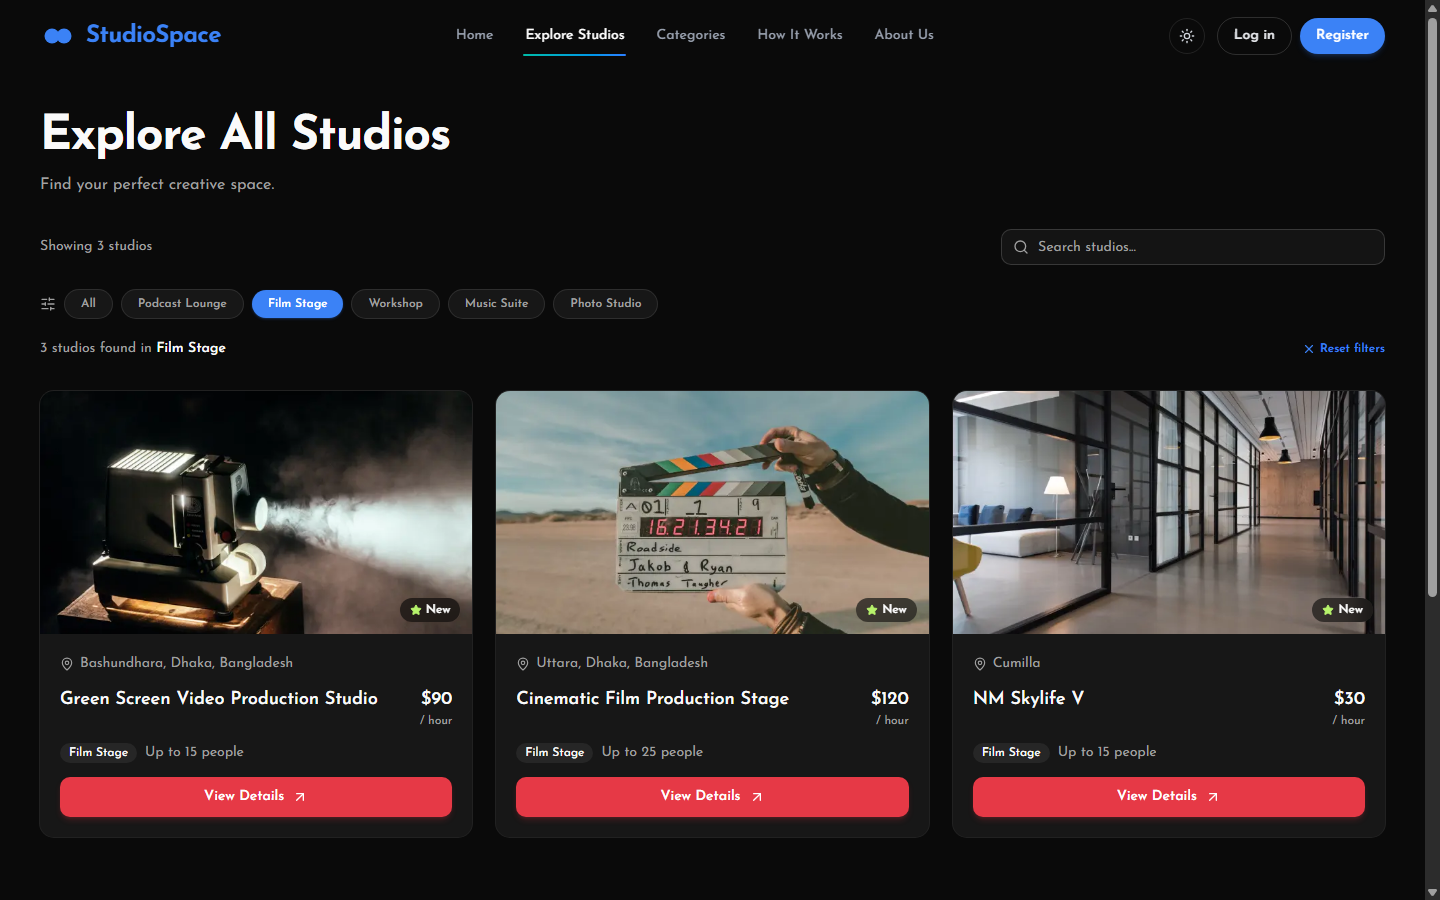
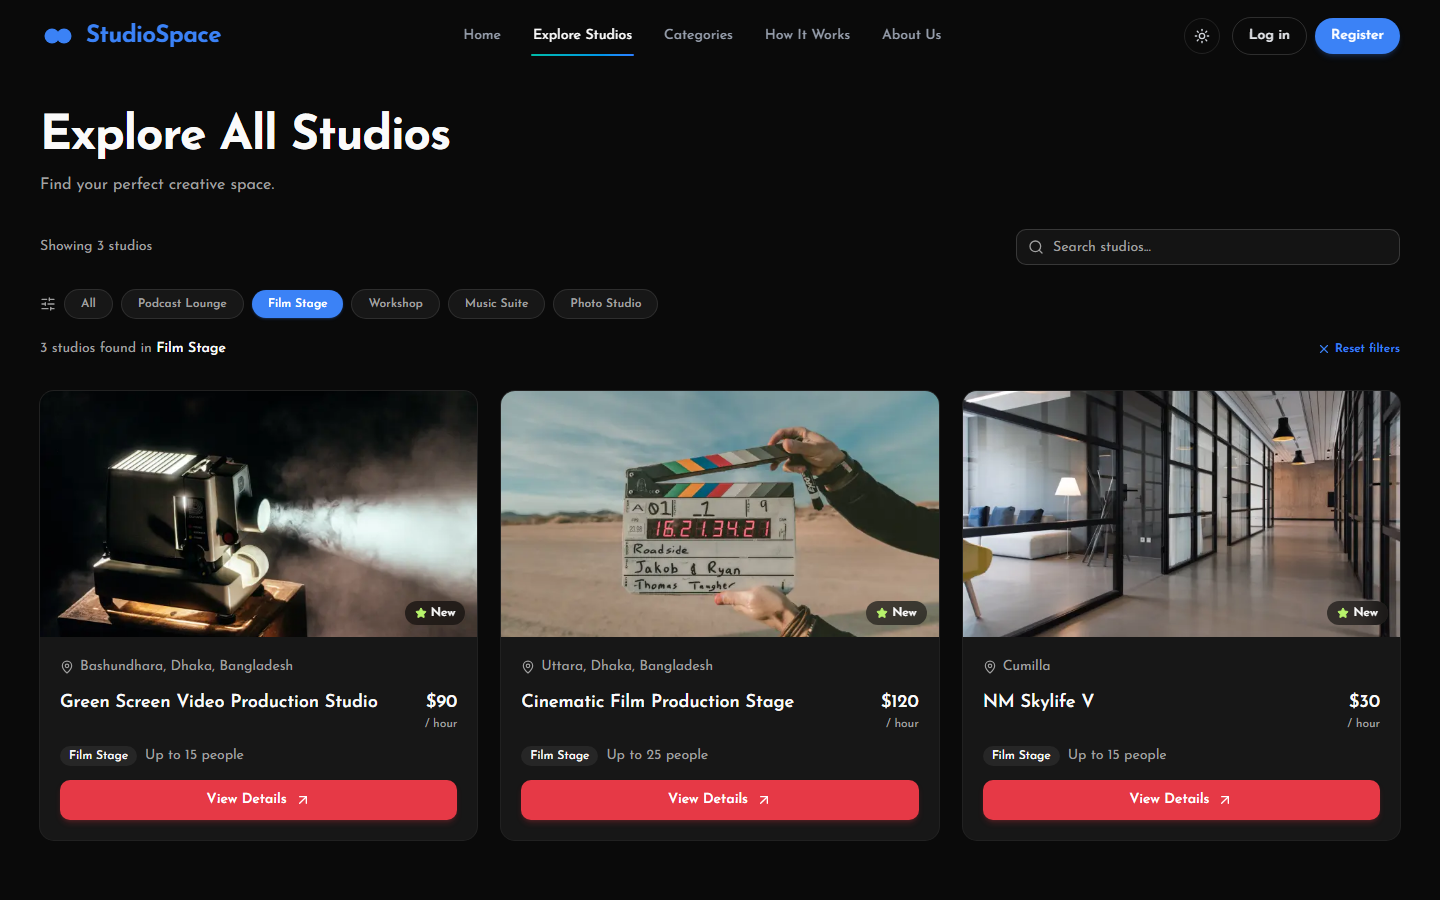
Ui fixed

diff --git a/src/data/projects.ts b/src/data/projects.ts
@@ -205,7 +205,7 @@ export const projects: Project[] = [
     problem:
       "Daily market price volatility and lack of accessible price tracking in local bazaars make it challenging for ordinary citizens to anticipate fair prices and prevent overpaying.",
     solution:
-      "Constructed a responsive full-stack platform featuring an animated price ticker, Bengali calendar date integration, detailed product price analytics, and protected user dashboards.",
+      "Constructed a responsive full-stack platform featuring an animated price ticker, Bengali calendar date integration, detailed product price analytics, and protected product detail and profile routes.",
     image: "/images/projects/bazar-dor1.png",
     imageAlt: "Bazar Dor daily market commodity monitoring platform interface",
     technologies: [
@@ -313,7 +313,7 @@ export const projects: Project[] = [
     problem:
       "Developers lose hours navigating scattered documentation to assemble modern, compatible development stacks.",
     solution:
-      "Built a streamlined web explorer that categorizes developer tools with responsive filtering, category badges, and instant search.",
+      "Built a streamlined React interface where users can explore technologies by category, difficulty, rating, and description, then assemble and manage a personal stack without duplicates.",
     image: "/images/projects/devstack1.png",
     imageAlt: "DevStack developer tool catalog interface",
     technologies: [
@@ -331,9 +331,10 @@ export const projects: Project[] = [
     category: "Frontend",
     developmentStatus: "Live",
     highlights: [
-      "Dynamic search and multi-tag filtering across tech categories",
-      "Responsive cards with tool details, external links, and tag badges",
-      "Optimized client-side state management for snappy interactions",
+      "Browse technologies with icon, category, difficulty, rating, and description",
+      "Add technologies to a personal stack with duplicate prevention",
+      "Remove selected technologies individually or clear the whole stack",
+      "Responsive interface with toast feedback for add and remove actions",
     ],
     features: [
       {

diff --git a/src/components/projects/detail/ProjectGallery.tsx b/src/components/projects/detail/ProjectGallery.tsx
@@ -41,7 +41,11 @@ export function ProjectGallery({ images }: ProjectGalleryProps) {
                 src={image.src}
                 alt={image.alt}
                 fill
-                sizes="(min-width: 640px) 50vw, 100vw"
+                sizes={
+                  spansBoth
+                    ? "(min-width: 1024px) 900px, 100vw"
+                    : "(min-width: 1024px) 450px, (min-width: 640px) 50vw, 100vw"
+                }
                 className="object-cover object-top transition-transform duration-500 group-hover:scale-[1.02]"
               />
               <span className="pointer-events-none absolute inset-0 bg-gradient-to-t from-black/55 via-transparent to-transparent opacity-70 transition-opacity group-hover:opacity-100" />
@@ -52,7 +56,7 @@ export function ProjectGallery({ images }: ProjectGalleryProps) {
                 </span>
               )}
 
-              <span className="absolute right-3 top-3 inline-flex h-8 w-8 items-center justify-center rounded-full border border-white/20 bg-black/45 text-white opacity-0 backdrop-blur transition-opacity group-hover:opacity-100 group-focus-visible:opacity-100">
+              <span className="absolute right-3 top-3 inline-flex h-8 w-8 items-center justify-center rounded-full border border-white/20 bg-black/45 text-white opacity-100 backdrop-blur transition-opacity sm:opacity-0 sm:group-hover:opacity-100 sm:group-focus-visible:opacity-100">
                 <Expand className="h-3.5 w-3.5" />
               </span>
             </button>

diff --git a/src/components/projects/detail/SectionReveal.tsx b/src/components/projects/detail/SectionReveal.tsx
@@ -9,9 +9,15 @@ interface SectionRevealProps {
   delay?: number;
 }
 
+const useIsomorphicLayoutEffect =
+  typeof window !== "undefined" ? React.useLayoutEffect : React.useEffect;
+
 /**
  * Small, dependency-free entrance animation.
- * Content is revealed once when it first approaches the viewport.
+ *
+ * The server renders content visible by default, so the page still works
+ * without JavaScript. On the client, off-screen sections are hidden in a
+ * layout effect (before paint) and revealed once they approach the viewport.
  */
 export function SectionReveal({
   children,
@@ -19,9 +25,9 @@ export function SectionReveal({
   delay = 0,
 }: SectionRevealProps) {
   const ref = React.useRef<HTMLDivElement>(null);
-  const [visible, setVisible] = React.useState(false);
+  const [visible, setVisible] = React.useState(true);
 
-  React.useEffect(() => {
+  useIsomorphicLayoutEffect(() => {
     const node = ref.current;
     if (!node) return;
 
@@ -34,11 +40,13 @@ export function SectionReveal({
       return;
     }
 
-    // Anything already on screen should not wait for the observer.
+    // Anything already on screen should stay visible.
     if (node.getBoundingClientRect().top < window.innerHeight * 0.92) {
       setVisible(true);
       return;
     }
+
+    setVisible(false);
 
     const observer = new IntersectionObserver(
       ([entry]) => {

diff --git a/src/components/projects/detail/ProjectBanner.tsx b/src/components/projects/detail/ProjectBanner.tsx
@@ -31,7 +31,7 @@ export function ProjectBanner({ src, alt }: ProjectBannerProps) {
           sizes="100vw"
           className="object-cover object-top transition-transform duration-500 group-hover:scale-[1.01]"
         />
-        <span className="pointer-events-none absolute inset-x-0 bottom-0 flex justify-end bg-gradient-to-t from-black/60 to-transparent p-4 opacity-0 transition-opacity duration-300 group-hover:opacity-100 group-focus-visible:opacity-100 sm:p-5">
+        <span className="pointer-events-none absolute inset-x-0 bottom-0 flex justify-end bg-gradient-to-t from-black/60 to-transparent p-4 opacity-100 transition-opacity duration-300 sm:opacity-0 sm:group-hover:opacity-100 sm:group-focus-visible:opacity-100 sm:p-5">
           <span className="inline-flex items-center gap-2 rounded-full border border-white/15 bg-black/50 px-3 py-1.5 text-[11px] font-medium text-white backdrop-blur">
             <Expand className="h-3.5 w-3.5" />
             View full screenshot

diff --git a/src/app/projects/[slug]/page.tsx b/src/app/projects/[slug]/page.tsx
@@ -7,7 +7,7 @@ import { GithubIcon } from "@/components/ui/Icons";
 import { getAllProjects, getProjectBySlug } from "@/lib/projects";
 import { Container } from "@/components/ui/Container";
 import { Badge } from "@/components/ui/Badge";
-import { Button } from "@/components/ui/button";
+import { Button } from "@/components/ui/Button";
 import { ProjectBanner } from "@/components/projects/detail/ProjectBanner";
 import { ProjectSection } from "@/components/projects/detail/ProjectSection";
 import { ProjectSnapshot } from "@/components/projects/detail/ProjectSnapshot";
@@ -342,7 +342,7 @@ export default async function ProjectDetailPage({ params }: PageProps) {
             </div>
           </div>
 
-          <div className="lg:col-span-4">
+          <div className="hidden lg:col-span-4 lg:block">
             <ProjectSidebar sections={sections} />
           </div>
         </div>

diff --git a/src/app/about/page.tsx b/src/app/about/page.tsx
@@ -5,7 +5,7 @@ import { ArrowRight, BookOpen, Code, Compass, Heart, Sparkles, Terminal } from "
 import { siteConfig } from "@/data/site";
 import { Container } from "@/components/ui/Container";
 import { SectionHeading } from "@/components/ui/SectionHeading";
-import { Button } from "@/components/ui/button";
+import { Button } from "@/components/ui/Button";
 import { Skills } from "@/components/home/Skills";
 import { Education } from "@/components/home/Education";
 import { LearningTimeline } from "@/components/about/LearningTimeline";

diff --git a/src/components/home/Hero.tsx b/src/components/home/Hero.tsx
@@ -5,7 +5,7 @@ import { ArrowRight, Download } from "lucide-react";
 import { siteConfig } from "@/data/site";
 import { getVerifiedSocialLinks } from "@/data/social-links";
 import { SocialCard } from "@/components/social/SocialCard";
-import { Button } from "@/components/ui/button";
+import { Button } from "@/components/ui/Button";
 import { Badge } from "@/components/ui/Badge";
 import { Container } from "@/components/ui/Container";
 import { techIconsData } from "@/data/tech-icons";

diff --git a/src/app/study-abroad/page.tsx b/src/app/study-abroad/page.tsx
@@ -5,7 +5,7 @@ import { studyAbroadLastReviewed } from "@/data/study-abroad";
 import { StudyAbroadHub } from "@/components/study-abroad/StudyAbroadHub";
 import { Notice } from "@/components/study-abroad/ui";
 import { Container } from "@/components/ui/Container";
-import { Button } from "@/components/ui/button";
+import { Button } from "@/components/ui/Button";
 import { formatDate } from "@/lib/utils";
 import { readStudyAbroadDataSafe } from "@/lib/study-abroad/store";
 

diff --git a/src/components/study-abroad/UniversityDetailView.tsx b/src/components/study-abroad/UniversityDetailView.tsx
@@ -23,7 +23,7 @@ import type { City, Country, University } from "@/lib/study-abroad/types";
 import { ApiError, requestJson } from "@/lib/study-abroad/client";
 import { formatDate } from "@/lib/utils";
 import { Badge } from "@/components/ui/Badge";
-import { Button } from "@/components/ui/button";
+import { Button } from "@/components/ui/Button";
 import { SectionHeading } from "@/components/ui/SectionHeading";
 import {
   EditAccessProvider,

diff --git a/src/app/resources/page.tsx b/src/app/resources/page.tsx
@@ -5,7 +5,7 @@ import { getAllResources } from "@/lib/resources";
 import { ResourceGrid } from "@/components/resources/ResourceGrid";
 import { SectionHeading } from "@/components/ui/SectionHeading";
 import { Container } from "@/components/ui/Container";
-import { Button } from "@/components/ui/button";
+import { Button } from "@/components/ui/Button";
 
 export const metadata: Metadata = {
   title: "Resources & Notes",

diff --git a/src/components/home/ContactCTA.tsx b/src/components/home/ContactCTA.tsx
@@ -4,7 +4,7 @@ import { ArrowRight, Mail } from "lucide-react";
 import { siteConfig } from "@/data/site";
 import { getVerifiedSocialLinks } from "@/data/social-links";
 import { SocialCard } from "@/components/social/SocialCard";
-import { Button } from "@/components/ui/button";
+import { Button } from "@/components/ui/Button";
 import { Container } from "@/components/ui/Container";
 
 export function ContactCTA() {

diff --git a/src/components/study-abroad/CountryDetailView.tsx b/src/components/study-abroad/CountryDetailView.tsx
@@ -25,7 +25,7 @@ import {
 import { ApiError, requestJson } from "@/lib/study-abroad/client";
 import { formatDate } from "@/lib/utils";
 import { Badge } from "@/components/ui/Badge";
-import { Button } from "@/components/ui/button";
+import { Button } from "@/components/ui/Button";
 import { EmptyState } from "@/components/ui/EmptyState";
 import { SectionHeading } from "@/components/ui/SectionHeading";
 import {
